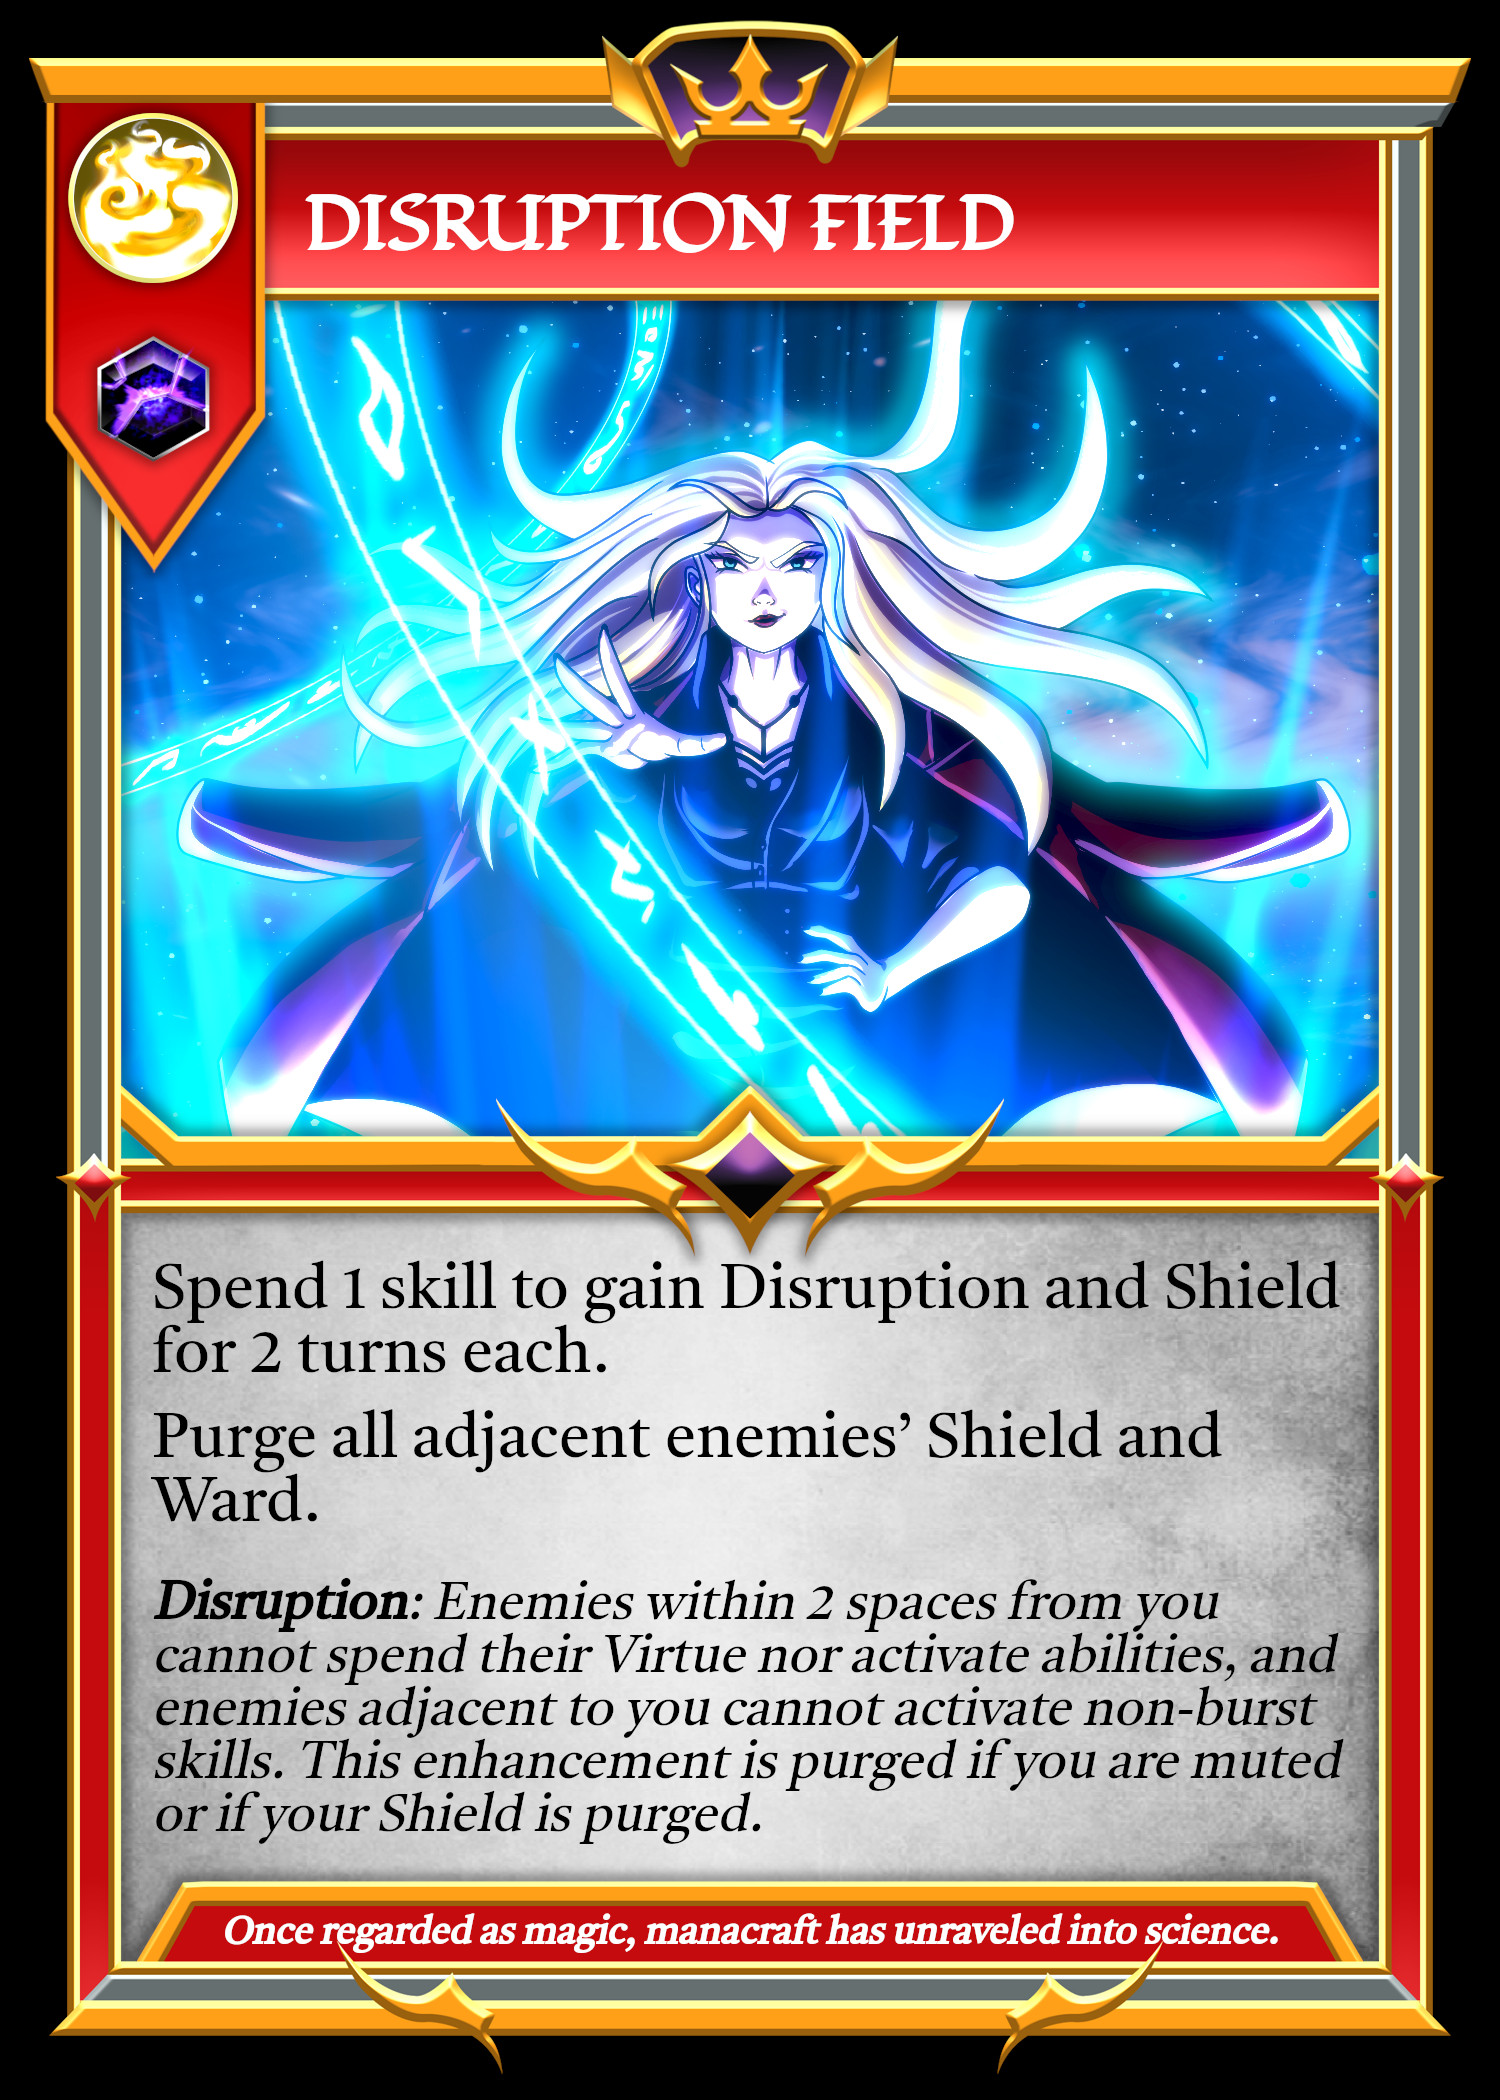
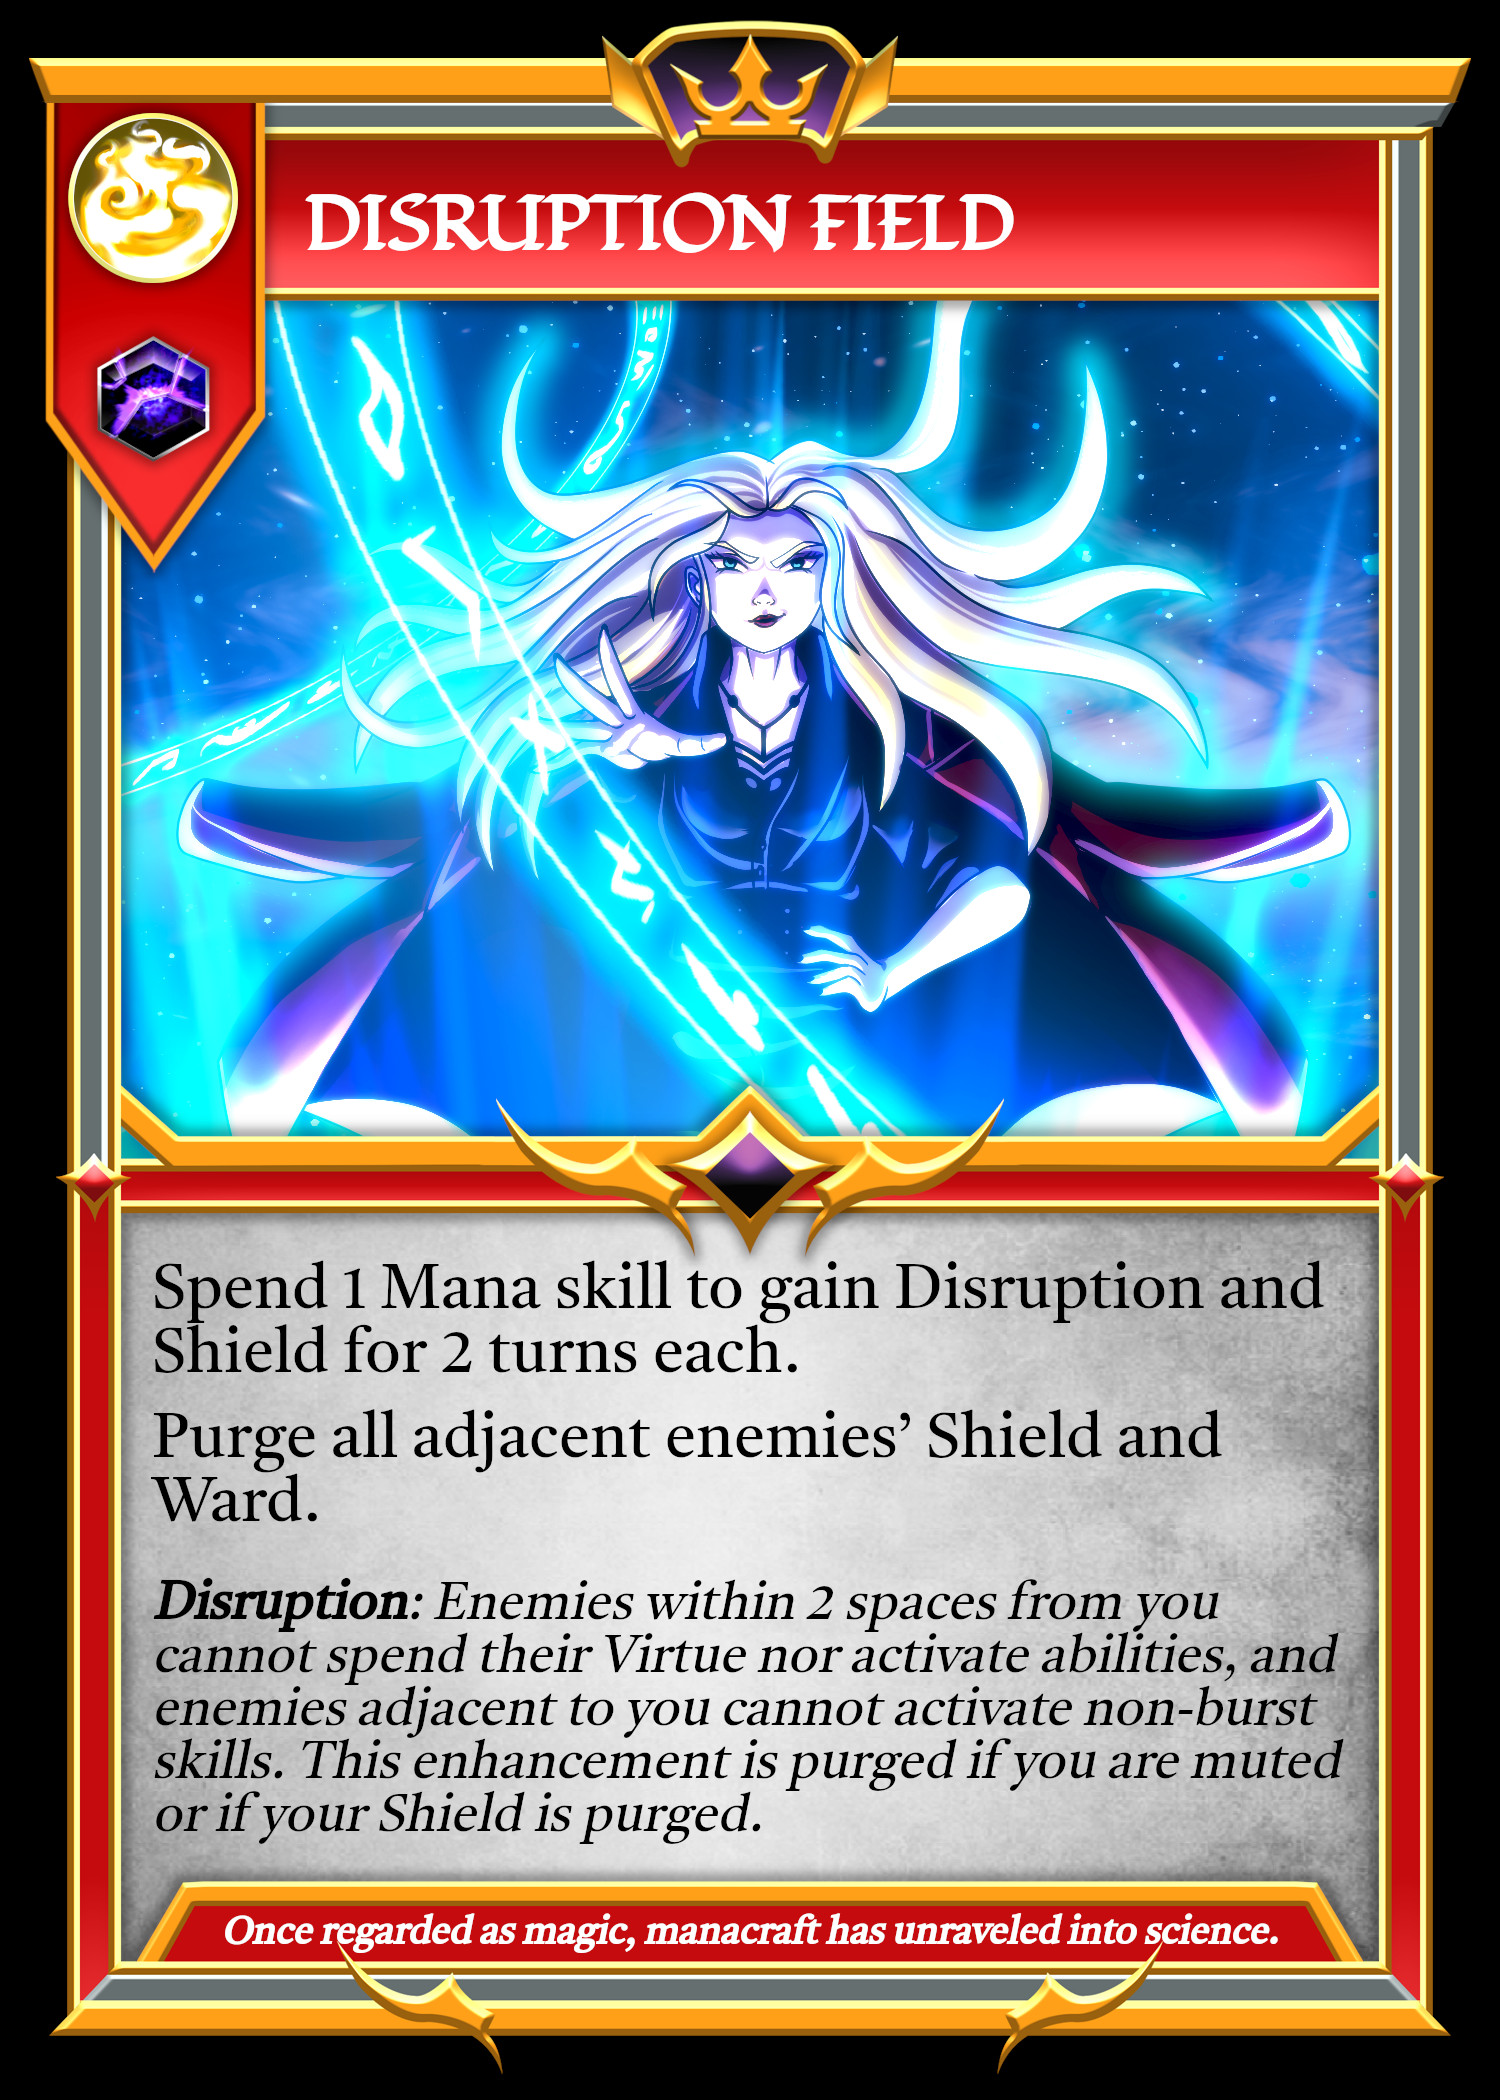
updated some descriptions. fixed bug regarding disruption field crystal placement. Nerfed Disruption Field: must spend Mana skill to activate.

Changed region(s): [[0.092, 0.5881, 0.8893, 0.65]]

diff --git a/src/components/boardComponents/Piece.jsx b/src/components/boardComponents/Piece.jsx
@@ -229,34 +229,6 @@ export const Piece = (props) => {
                 </>
               )}
 
-              {props.unit.unitClass === "Mana Scion" && (
-                <>
-                  {props.unit.enhancements.disruption === 1 && (
-                    <div
-                      className="disruptionCounter"
-                      style={{ left: 20 }}
-                    ></div>
-                  )}
-                  {props.unit.enhancements.disruption > 1 && (
-                    <>
-                      <div
-                        className="disruptionCounter"
-                        style={{ left: 20 }}
-                      ></div>
-                      <div
-                        className="disruptionCounter"
-                        style={{ left: 38 }}
-                      ></div>
-                    </>
-                  )}
-                </>
-              )}
-
-              {/* Mana Scion: Disruption */}
-              {/* {props.unit.enhancements.disruption > 0 && (
-                <div className="disruption animating"></div>
-              )} */}
-
               {/* Plant Scion: Overgrowth */}
               {props.unit.enhancements.overgrowth === true && (
                 <div className="overgrowth animating"></div>
@@ -415,6 +387,20 @@ export const Piece = (props) => {
             <>
               {props.unit.boosts.mountainStance === true && (
                 <div className="mountain-stance" style={{ left: 29 }}></div>
+              )}
+            </>
+          )}
+
+          {props.unit.unitClass === "Mana Scion" && (
+            <>
+              {props.unit.enhancements.disruption === 1 && (
+                <div className="disruptionCounter" style={{ left: 20 }}></div>
+              )}
+              {props.unit.enhancements.disruption > 1 && (
+                <>
+                  <div className="disruptionCounter" style={{ left: 20 }}></div>
+                  <div className="disruptionCounter" style={{ left: 38 }}></div>
+                </>
               )}
             </>
           )}

diff --git a/src/components/modals/UnitInfo.jsx b/src/components/modals/UnitInfo.jsx
@@ -311,8 +311,8 @@ const UnitInfo = (props) => {
               ⬩Your deployment and movements bypass motion contingent skills.
             </p>
             <p className="unitInfo-text-desc unitInfo-text-last">
-              ⬩Your and your adjacent allies’ activations bypass “Symphonic
-              Screech”.
+              ⬩Your and your adjacent allies’ skill activations bypass
+              “Symphonic Screech”.
             </p>
           </>
         );

diff --git a/src/hooks/useRecurringEffects.jsx b/src/hooks/useRecurringEffects.jsx
@@ -2902,7 +2902,9 @@ export const useRecurringEffects = () => {
       case "06-03":
         return false;
       case "06-04":
-        return localGameState[self].skillHand.length >= 2; // need 2 cards: skill itself + 1 discard
+        return ["06-01", "06-02", "06-03"].some((s) =>
+          localGameState[self].skillHand.includes(s)
+        );
 
       case "07-01":
         return getZonesWithEnemies(unit, 1).length > 0 ? true : false;

diff --git a/src/hooks/useSkillEffects.jsx b/src/hooks/useSkillEffects.jsx
@@ -1740,8 +1740,8 @@ export const useSkillEffects = () => {
       resolution: "Discard Skill",
       unit: unit,
       player: self,
-      message: "Spend 1 skill",
-      restriction: null,
+      message: "Spend 1 Mana skill",
+      restriction: ["06-01", "06-02", "06-03"],
     });
 
     return newGameState;
